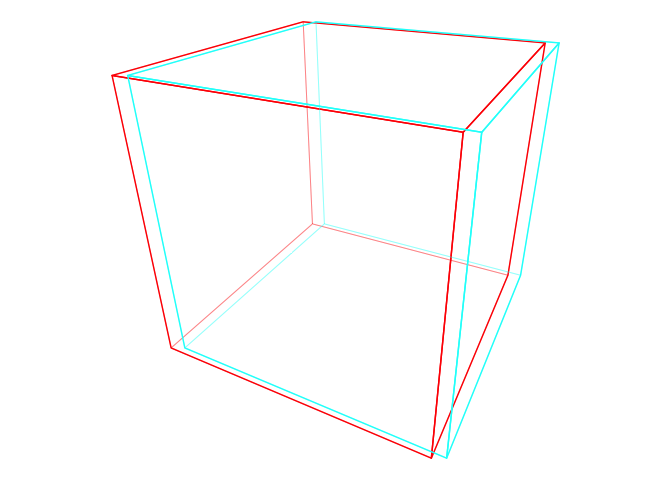
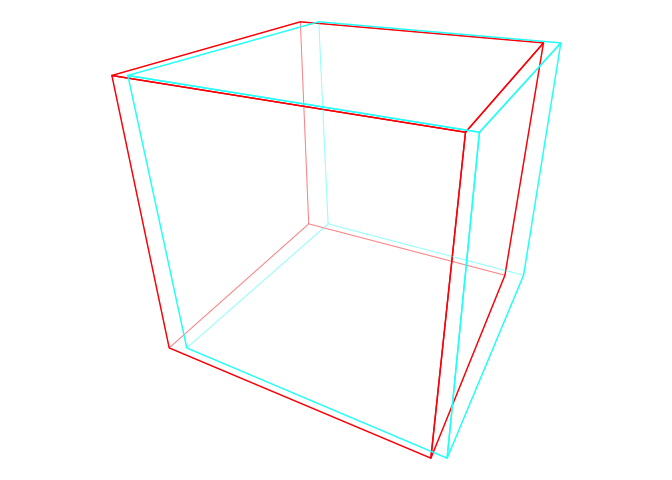
Update Z adjustment for anaglyphs

diff --git a/README.md b/README.md
@@ -53,7 +53,7 @@ devtools::install_github("coolbutuseless/ggthreed")
 
 ``` r
 ggplot(mtcars) +
-  geom_point(aes(mpg, y = wt, z = disp), stat = 'anaglyph', alpha = 0.75) +
+  geom_point(aes(mpg, y = wt, z = disp), stat = 'anaglyph', alpha = 0.5, zscale = 10) +
   theme_bw()
 ```
 
@@ -72,7 +72,7 @@ obj <- threed::mesh3dobj$cube %>%
 
 ggplot(obj, aes(x, y, z = z, group = element_id)) +
   geom_polygon(fill = NA, colour='black', aes(size = hidden), stat = 'anaglyph', 
-               zscale = 0.01, zoffset = -0.5) +
+               zscale = 0.03) +
   scale_linetype_manual(values = c('TRUE' = "FF", 'FALSE' = 'solid')) +
   scale_size_manual(values = c('TRUE' = 0.1, 'FALSE' = 0.5)) +
   theme_void() +

diff --git a/NEWS.md b/NEWS.md
@@ -1,4 +1,8 @@
 
+# ggthreed 0.1.3
+
+* Change x position adjustment for `StatAnaglyph` to vary with 1/z
+
 # ggthreed 0.1.2
 
 * Add `StatAnaglyph` for creating red-blue anaglyphs
